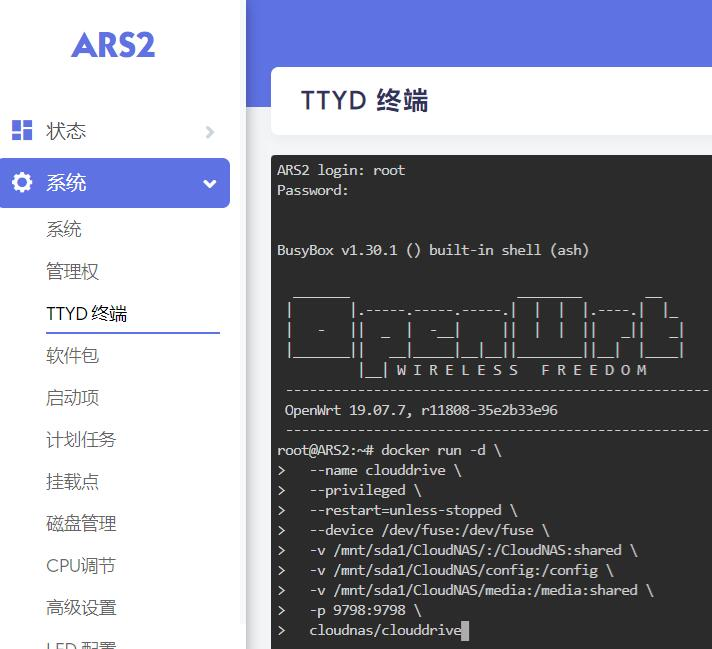
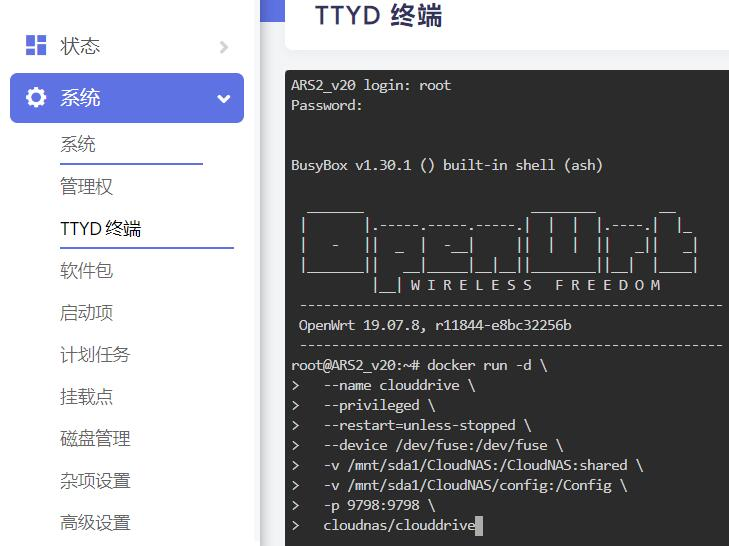
update CloudDrive

diff --git a/docs/zh/guide/easepi/advanced.md b/docs/zh/guide/easepi/advanced.md
@@ -257,23 +257,20 @@ docker run -d \
   --privileged \
   --restart=unless-stopped \
   --device /dev/fuse:/dev/fuse \
-  -v /mnt/sda1/CloudNAS/:/CloudNAS:shared \
-  -v /mnt/sda1/CloudNAS/config:/config \
-  -v /mnt/sda1/CloudNAS/media:/media:shared \
+  -v /mnt/sda1/CloudNAS:/CloudNAS:shared \
+  -v /mnt/sda1/CloudNAS/config:/Config \
   -p 9798:9798 \
   cloudnas/clouddrive
 ```
 
 **说明：**
-
-* 路径挂载点按需修改为自己的挂载点路径。
-
-* 若是其他挂载点，比如/mnt/sdb1：
 ```
-  -v /mnt/sdb1/CloudNAS/:/CloudNAS:shared \
-  -v /mnt/sdb1/CloudNAS/config:/config \
-  -v /mnt/sdb1/CloudNAS/media:/media:shared \
+-v /mnt/sda1/CloudNAS:/CloudNAS:shared \       ##CloudDrive 磁盘映射挂载点
+-v /mnt/sda1/CloudNAS/config:/Config \         ##CloudDrive 配置文件夹
 ```
+
+* 路径挂载点按需修改为自己硬盘的挂载点路径(比如/mnt/sdb1)。
+
 
 ![img](./advanced/CloudDrive1.jpg)
 
@@ -295,13 +292,15 @@ ps：CloudDrive是需要注册登录，没帐号的，请注册。
 
 ![img](./advanced/CloudDrive5.jpg)
 
-#### 5.回到ARS2管理界面，打开系统——挂载点，已经挂载了CloudDrive的盘符CloudFS，挂载点路径是：/mnt/sda1/CloudNAS/CloudDrive，相当于现在ARS2就多了一个CloudFS硬盘；
+#### 5.回到管理界面，打开系统——挂载点，已经挂载CloudDrive，相当于多了一个CloudDrive硬盘；
 
-* 若没出现盘符CloudFS，请升级固件至19.07.8 r11804或者更新版本。
+* 挂载点路径是：/mnt/sda1/CloudNAS/CloudDrive；
+
+* 若没出现CloudFS，请升级固件至19.07.8 r11804或者更新版本。
 
 ![img](./advanced/CloudDrive6.jpg)
 
-#### 6.CloudDrive已经挂载到ARS2上，再将盘CloudFS利用Samba协议共享出去，其余设备就能直接通过Samba协议访问CloudFS硬盘。
+#### 6.可将CloudDrive盘利用Samba等协议共享出去，其他设备就能直接访问CloudDrive盘。
 
 **至此CloudDrive这边设置就到此完成。下面开始将如何利用Jellyfin加载网盘的影视资源。**
 
